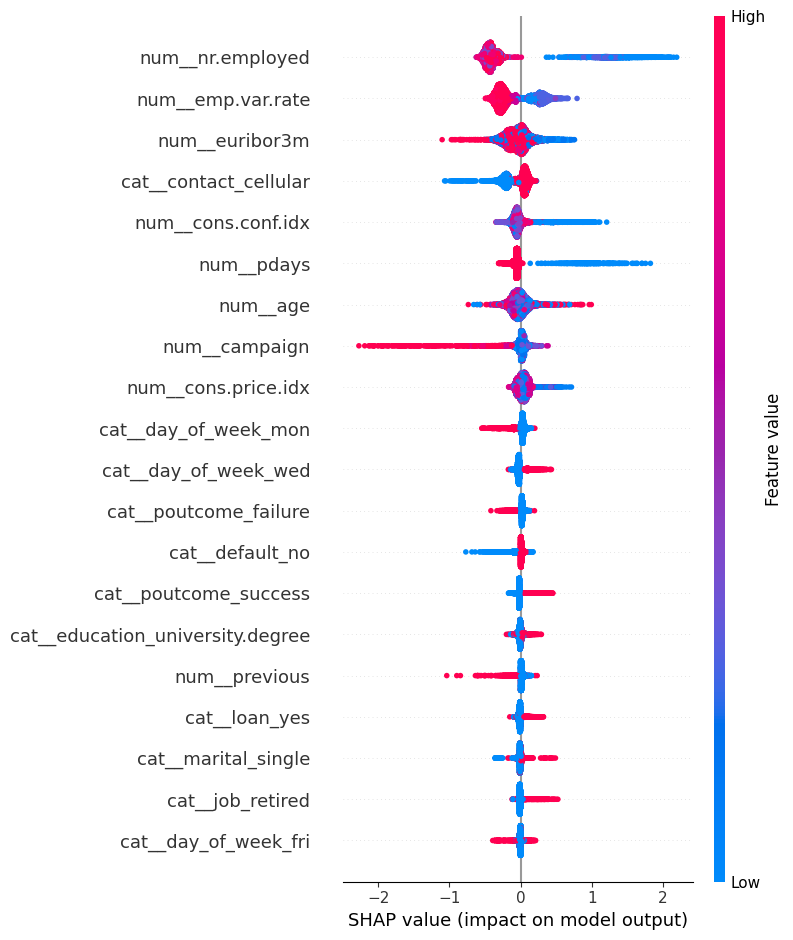
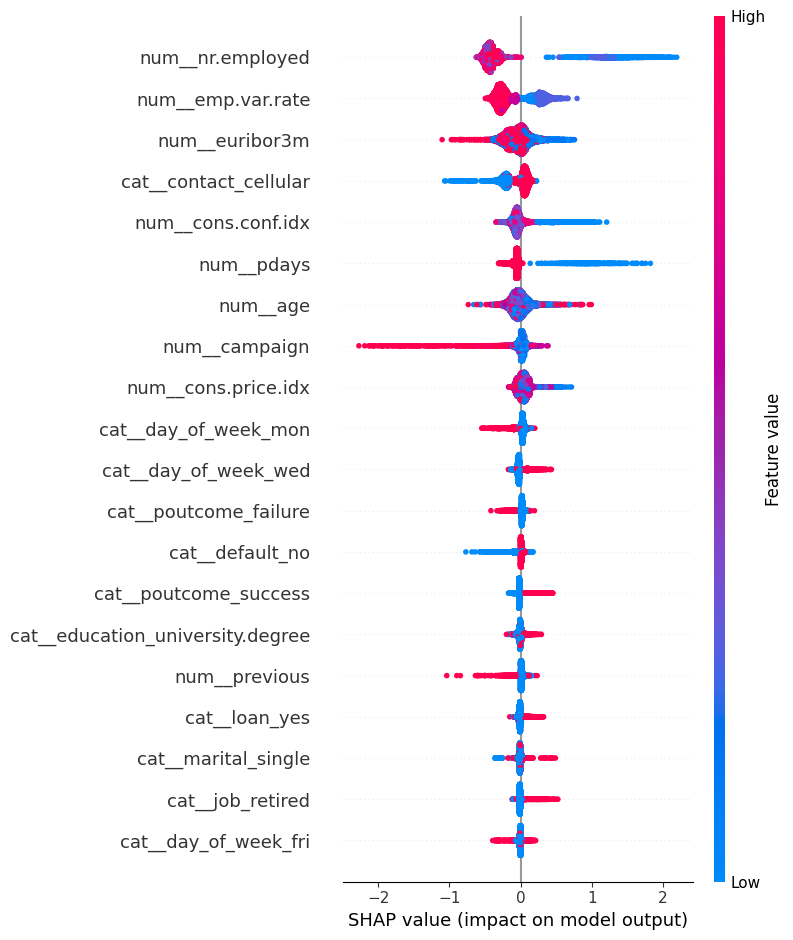
Final polish: business.py functions, real business-logic tests, pinned deps, separate CI/train workflows, SHAP label clarified

diff --git a/pages/03_Campaign_Ranking.py b/pages/03_Campaign_Ranking.py
@@ -1,9 +1,10 @@
-import streamlit as st
+import streamlit as st
 import pandas as pd
 import numpy as np
 import joblib
 import os
 import json
+from src.business import rank_customers, optimal_k, campaign_summary
 
 BASE_DIR = os.path.dirname(os.path.dirname(os.path.abspath(__file__)))
 st.set_page_config(page_title="Campaign Optimizer", page_icon="💰", layout="wide")
@@ -24,7 +25,7 @@ st.markdown("""
 """, unsafe_allow_html=True)
 
 st.title("💰 Campaign Optimizer — Expected-Profit Optimal K")
-st.caption("Computes the expected-profit-optimal number of contacts by scanning all K from 1 to N.")
+st.caption("Ranks customers by calibrated probability, then finds K* that maximizes expected profit.")
 
 production = joblib.load(os.path.join(BASE_DIR, 'models', 'production_model.pkl'))
 with open(os.path.join(BASE_DIR, 'models', 'model_metadata.json')) as f:
@@ -43,79 +44,60 @@ with st.spinner("Scoring customers..."):
     proba = production.predict_proba(features)[:, 1]
 
 scored = pd.DataFrame({'customer_id': customer_ids, 'probability': proba})
-scored = scored.sort_values('probability', ascending=False).reset_index(drop=True)
+scored = rank_customers(scored)
 scored['rank'] = range(1, len(scored) + 1)
 
-st.sidebar.header("💼 Budget & Economics (₹)")
-revenue = st.sidebar.number_input("Revenue per subscription (₹)", 100, 100000, int(metadata.get('revenue_per_subscription', 2000)), 100)
-cost = st.sidebar.number_input("Cost per contact (₹)", 1, 5000, int(metadata.get('cost_per_contact', 50)), 5)
-
-# Exact top-K optimal: scan all K from 1 to N
-cumulative_proba = scored['probability'].cumsum().values
-k_values = np.arange(1, len(scored) + 1)
-profit_curve = cumulative_proba * revenue - k_values * cost
-
-best_k = int(np.argmax(profit_curve)) + 1
-best_profit = float(profit_curve[best_k - 1])
-
-# Also show a user-selected K
+st.sidebar.header("Budget & Economics (Rs)")
+revenue = st.sidebar.number_input("Revenue per subscription (Rs)", 100, 100000, int(metadata.get('revenue_per_subscription', 2000)), 100)
+cost = st.sidebar.number_input("Cost per contact (Rs)", 1, 5000, int(metadata.get('cost_per_contact', 50)), 5)
 st.sidebar.markdown("---")
-user_k = st.sidebar.slider("Manual K (customers to contact)", 1, len(scored), best_k, 50)
+user_k = st.sidebar.slider("Manual K (contacts)", 1, len(scored), 100, 50)
 
-# Manual metrics
-top_user = scored.head(user_k)
-profit_user = float((top_user['probability'].sum() * revenue) - user_k * cost)
-conversions_user = float(top_user['probability'].sum())
-baseline_rate = proba.mean()
-lift_user = (top_user['probability'].mean() / baseline_rate) if baseline_rate > 0 else 0
+best_k, best_profit = optimal_k(scored['probability'].values, revenue, cost)
+summary_best = campaign_summary(scored['probability'].values, best_k, revenue, cost)
+summary_user = campaign_summary(scored['probability'].values, user_k, revenue, cost)
 
-# Optimal metrics
-top_best = scored.head(best_k)
-conversions_best = float(top_best['probability'].sum())
-baseline_rate = proba.mean()
-lift_best = (top_best['probability'].mean() / baseline_rate) if baseline_rate > 0 else 0
-
-st.markdown(f"### 🎯 Expected-Profit Optimal: contact **{best_k:,}** customers for max profit **₹{best_profit:,.0f}**")
+st.markdown(f"### Expected-Profit Optimal: contact **{best_k:,}** customers for max profit **Rs {best_profit:,.0f}**")
 
 c1, c2, c3, c4 = st.columns(4)
 for col, label, val in zip(
     [c1, c2, c3, c4],
-    ["Contacts (Optimal K)", "Expected Conversions", "Expected Profit", "Lift"],
-    [f"{best_k:,}", f"{conversions_best:.0f}", f"₹{best_profit:,.0f}", f"{lift_best:.2f}x"]
+    ["Optimal K", "Expected Conversions", "Expected Profit", "Lift"],
+    [f"{summary_best['contacts']:,}", f"{summary_best['expected_conversions']:.0f}",
+     f"Rs {summary_best['expected_profit']:,.0f}", f"{summary_best['lift']:.2f}x"]
 ):
     with col:
         st.markdown(f'<div class="metric-card"><div class="metric-label">{label}</div><div class="metric-value">{val}</div></div>', unsafe_allow_html=True)
 
 st.markdown(f"""
-> ⚠ **Note:** Exact optimum computed by scanning all K=1..{len(scored):,}.  
-> Model-estimated expected values using calibrated probabilities.  
-> Revenue (₹{revenue:,}) and cost (₹{cost:,}) are user assumptions.  
-> The optimum is: `K* = argmax_K [ R * sum(top_K probs) - K * C ]`
+> **Note:** Optimal K computed by scanning K=1..{len(scored):,}: `K* = argmax_K [ R * sum(top_K p_i) - K * C ]`.  
+> Uses calibrated probabilities. Revenue (Rs {revenue:,}) and cost (Rs {cost:,}) are user-defined assumptions.  
+> **This is expected-profit-optimal, not universally optimal.**
 """)
 
 st.markdown("---")
-st.subheader(f"📊 Your Selection: K = {user_k:,}")
+st.subheader(f"Your Selection: K = {user_k:,}")
 c1, c2, c3, c4 = st.columns(4)
 for col, label, val in zip(
     [c1, c2, c3, c4],
     ["Contacts", "Expected Conversions", "Expected Profit", "Lift"],
-    [f"{user_k:,}", f"{conversions_user:.0f}", f"₹{profit_user:,.0f}", f"{lift_user:.2f}x"]
+    [f"{summary_user['contacts']:,}", f"{summary_user['expected_conversions']:.0f}",
+     f"Rs {summary_user['expected_profit']:,.0f}", f"{summary_user['lift']:.2f}x"]
 ):
     with col:
         st.markdown(f'<div class="metric-card"><div class="metric-label">{label}</div><div class="metric-value">{val}</div></div>', unsafe_allow_html=True)
 
 st.markdown("---")
-st.subheader("📈 Profit Curve (all K)")
-plot_df = pd.DataFrame({
-    'K': k_values[::max(1, len(k_values)//200)],
-    'Expected_Profit': profit_curve[::max(1, len(k_values)//200)]
-})
-st.line_chart(plot_df.set_index('K'))
-st.caption(f"Peak at K={best_k:,} (₹{best_profit:,.0f})")
+st.subheader("Profit Curve (all K)")
+k_values = np.arange(1, len(scored) + 1)
+cum = scored['probability'].cumsum().values
+profits = cum * revenue - k_values * cost
+step = max(1, len(k_values) // 200)
+st.line_chart(pd.DataFrame({'K': k_values[::step], 'Profit': profits[::step]}).set_index('K'))
 
 st.markdown("---")
-st.subheader("🏆 Top 100 Ranked Customers")
-st.dataframe(scored.head(100).merge(customers[['customer_id', 'age', 'job']], on='customer_id', how='left'), use_container_width=True, hide_index=True)
-
+st.subheader("Top 100 Ranked Customers")
+st.dataframe(scored.head(100).merge(customers[['customer_id', 'age', 'job']], on='customer_id', how='left'),
+             use_container_width=True, hide_index=True)
 csv = scored.merge(customers, on='customer_id', how='left').to_csv(index=False).encode('utf-8')
-st.download_button('📥 Download Campaign List (CSV)', csv, 'campaign_contacts.csv', 'text/csv')
+st.download_button('Download Campaign List (CSV)', csv, 'campaign_contacts.csv', 'text/csv')

diff --git a/tests/test_api.py b/tests/test_api.py
@@ -1,6 +1,8 @@
 from fastapi.testclient import TestClient
 from src.api import app
-import pytest
+import numpy as np
+from src.business import rank_customers, expected_profit, optimal_k, campaign_summary
+import pandas as pd
 
 client = TestClient(app)
 
@@ -17,22 +19,19 @@ valid_data = {
 def test_health_endpoint():
     r = client.get("/api/v1/health")
     assert r.status_code == 200
-    assert r.json()['status'] == 'ok'
 
 def test_valid_prediction():
     r = client.post("/api/v1/predict", json=valid_data)
     assert r.status_code == 200
     body = r.json()
-    assert "prediction" in body
     assert 0.0 <= body["probability"] <= 1.0
-    assert 0.0 <= body["threshold"] <= 1.0
 
 def test_missing_feature():
     invalid = {k: v for k, v in valid_data.items() if k != 'age'}
     r = client.post("/api/v1/predict", json=invalid)
     assert r.status_code == 422
 
-def test_invalid_categorical_rejected():
+def test_invalid_job_rejected():
     invalid = valid_data.copy()
     invalid['job'] = 'not-a-real-job'
     r = client.post("/api/v1/predict", json=invalid)
@@ -44,7 +43,7 @@ def test_invalid_marital_rejected():
     r = client.post("/api/v1/predict", json=invalid)
     assert r.status_code == 422
 
-def test_age_out_of_range_rejected():
+def test_age_out_of_range():
     invalid = valid_data.copy()
     invalid['age'] = 150
     r = client.post("/api/v1/predict", json=invalid)
@@ -67,26 +66,37 @@ def test_batch_size_limit():
 
 # -------- Business logic tests --------
 
-def test_profit_zero_probability():
-    # If p=0, profit per customer = -cost (should not be selected)
-    p, revenue, cost = 0.0, 2000, 50
-    profit = p * revenue - cost
-    assert profit == -50
+def test_rank_customers_sorts_descending():
+    df = pd.DataFrame({
+        'customer_id': ['A', 'B', 'C'],
+        'probability': [0.3, 0.9, 0.5]
+    })
+    ranked = rank_customers(df)
+    assert ranked['customer_id'].tolist() == ['B', 'C', 'A']
+    assert ranked['probability'].tolist() == [0.9, 0.5, 0.3]
 
-def test_profit_at_break_even():
-    # p * revenue = cost => break even at p = cost/revenue
-    revenue, cost = 2000, 50
-    break_even_p = cost / revenue
-    assert abs(break_even_p - 0.025) < 1e-9
-    assert (break_even_p * revenue - cost) == 0
+def test_expected_profit_formula():
+    assert expected_profit(0.5, 2000, 50) == 950.0
+    assert expected_profit(0.0, 2000, 50) == -50.0
+    assert expected_profit(0.025, 2000, 50) == 0.0
 
-def test_profit_positive_above_break_even():
-    p, revenue, cost = 0.5, 2000, 50
-    profit = p * revenue - cost
-    assert profit == 950
+def test_optimal_k_picks_max_profit():
+    # With high prob customers, optimal should be 2 (not 3) when 3rd has low prob
+    probs = np.array([0.9, 0.8, 0.01])
+    k, profit = optimal_k(probs, revenue=2000, cost=50)
+    assert k == 2
+    assert profit > 0
 
-def test_top_k_ranking_monotonic():
-    import numpy as np
-    probabilities = np.array([0.9, 0.8, 0.7, 0.3, 0.2])
-    sorted_desc = np.sort(probabilities)[::-1]
-    assert (sorted_desc == probabilities).all()  # already sorted desc
+def test_optimal_k_with_zero_probabilities():
+    probs = np.array([0.0, 0.0, 0.0])
+    k, profit = optimal_k(probs, revenue=2000, cost=50)
+    # No customers should be contacted (any K is negative)
+    assert k == 1  # argmax of [-50, -100, -150] is index 0
+
+def test_campaign_summary_metrics():
+    probs = np.array([0.9, 0.7, 0.5, 0.3, 0.1])
+    s = campaign_summary(probs, k=2, revenue=2000, cost=50)
+    assert s['contacts'] == 2
+    assert abs(s['expected_conversions'] - 1.6) < 1e-6
+    assert abs(s['expected_profit'] - (1.6 * 2000 - 100)) < 1e-6
+    assert s['lift'] > 1.0

diff --git a/src/business.py b/src/business.py
@@ -1,0 +1,44 @@
+import numpy as np
+import pandas as pd
+
+
+def rank_customers(df, probability_col='probability'):
+    """Sort customers by probability descending."""
+    return df.sort_values(probability_col, ascending=False).reset_index(drop=True)
+
+
+def expected_profit(probability, revenue, cost):
+    """Expected profit for a single customer: p*R - C."""
+    return float(probability) * float(revenue) - float(cost)
+
+
+def optimal_k(probabilities, revenue, cost):
+    """Find K* that maximizes cumulative expected profit."""
+    probs = np.asarray(probabilities, dtype=float)
+    cumulative = probs.cumsum()
+    k_values = np.arange(1, len(probs) + 1)
+    profits = cumulative * revenue - k_values * cost
+    best_idx = int(np.argmax(profits))
+    return best_idx + 1, float(profits[best_idx])
+
+
+def campaign_summary(probabilities, k, revenue, cost):
+    """Return dictionary of business metrics for top-K campaign."""
+    probs = np.asarray(probabilities, dtype=float)
+    top = probs[:k]
+    expected_conversions = float(top.sum())
+    expected_revenue = float(top.sum() * revenue)
+    expected_cost = int(k) * float(cost)
+    profit = expected_revenue - expected_cost
+    roi = (profit / expected_cost * 100) if expected_cost > 0 else 0.0
+    baseline = float(probs.mean())
+    lift = (float(top.mean()) / baseline) if baseline > 0 else 0.0
+    return {
+        'contacts': int(k),
+        'expected_conversions': expected_conversions,
+        'expected_revenue': expected_revenue,
+        'expected_cost': expected_cost,
+        'expected_profit': profit,
+        'roi_pct': roi,
+        'lift': lift,
+    }

diff --git a/pages/01_Predict.py b/pages/01_Predict.py
@@ -1,4 +1,4 @@
-import streamlit as st
+import streamlit as st
 import requests, os, json
 import pandas as pd
 import numpy as np
@@ -98,6 +98,6 @@ if submitted:
         st.pyplot(fig)
         plt.close()
         st.caption('↑ factors push probability UP, ↓ factors push it DOWN')
-        st.caption('SHAP explains the underlying base estimator; displayed probability is calibrated.')
+        st.caption('SHAP — Base XGBoost Explanation. This explains the underlying base estimator. Displayed probability is the calibrated output, which may differ slightly.')
     except Exception as e:
         st.info(f'SHAP unavailable: {e}')
